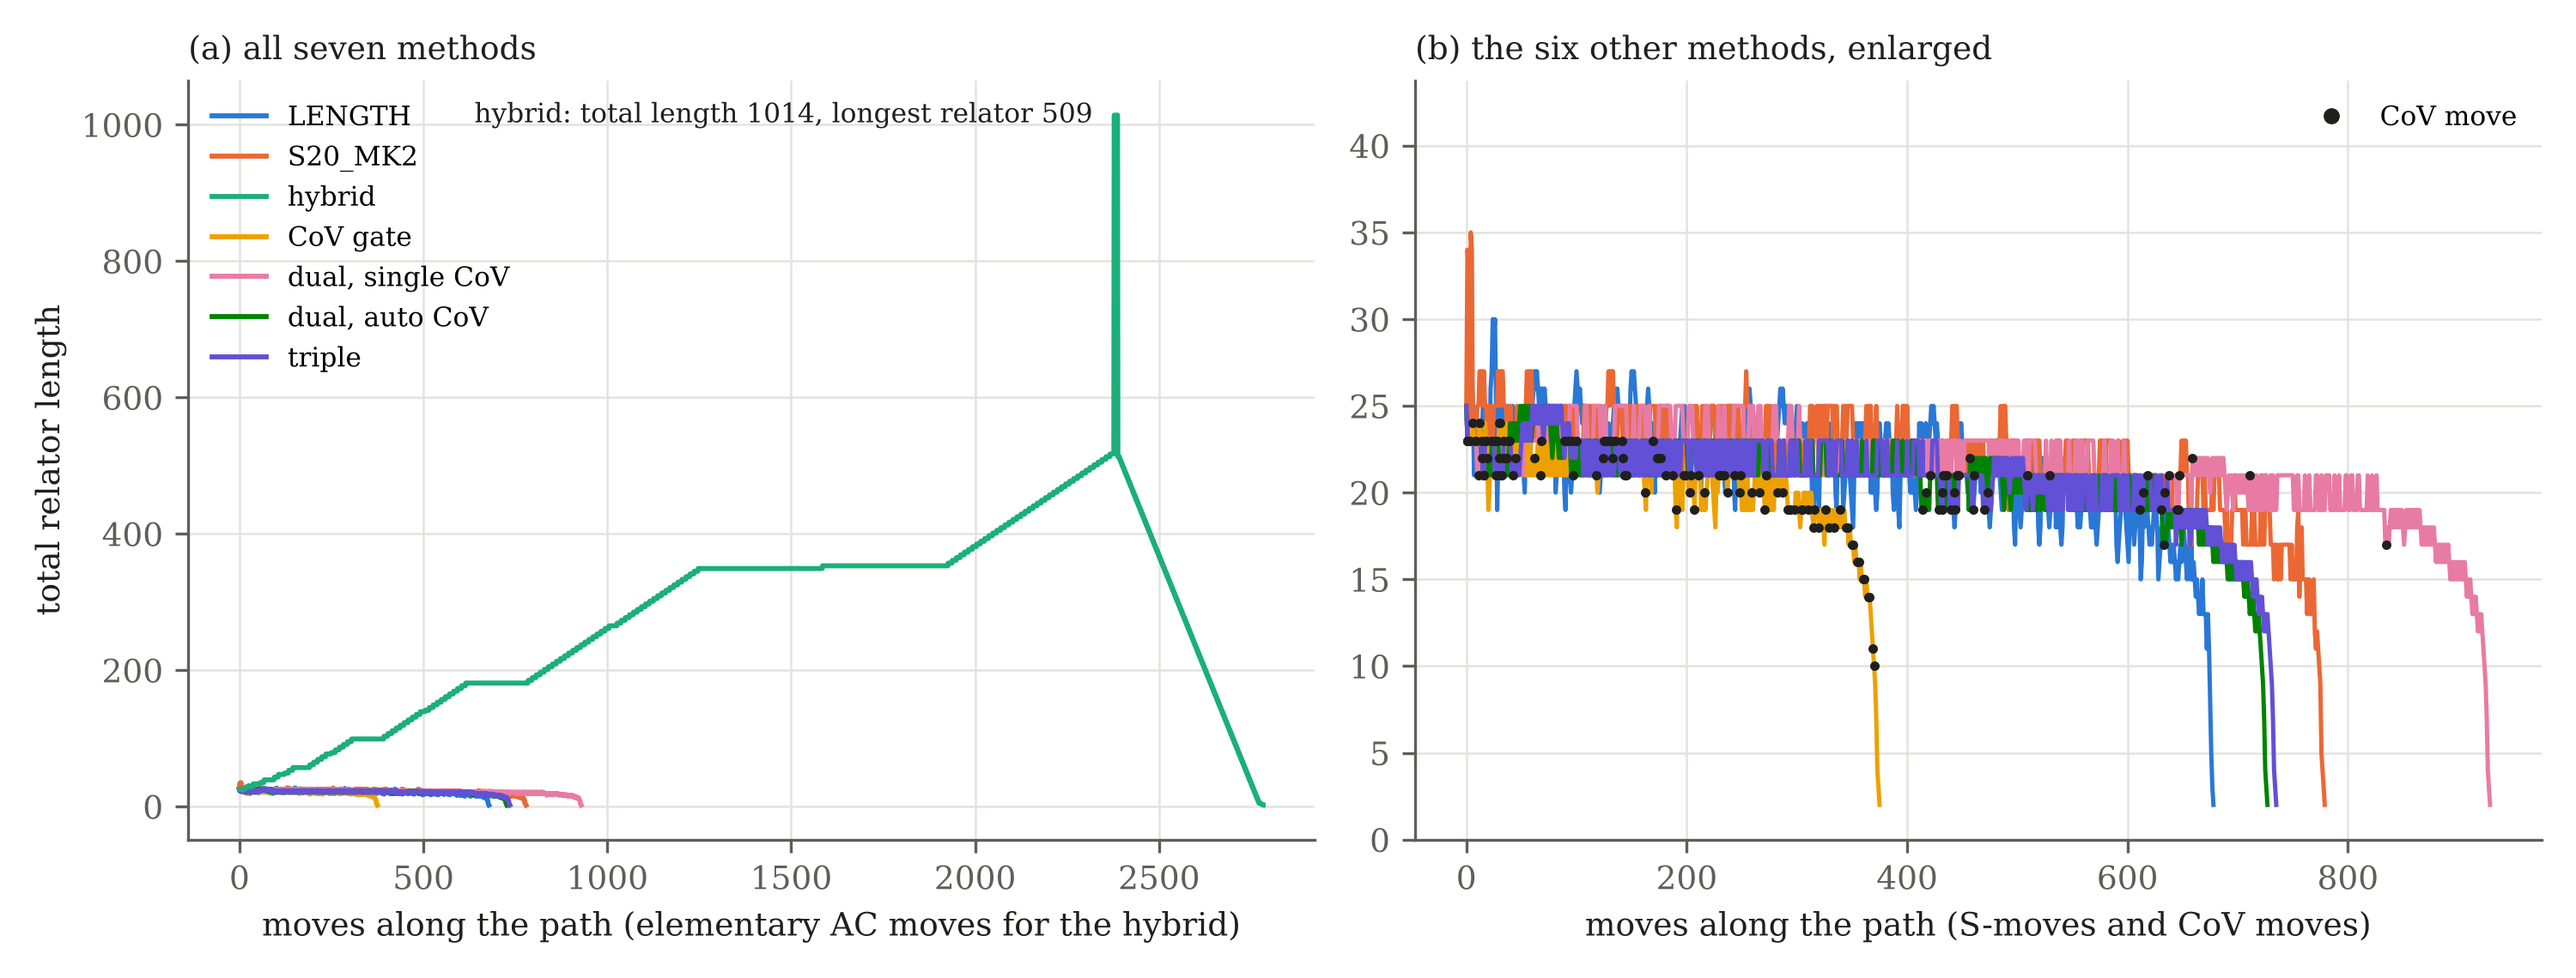
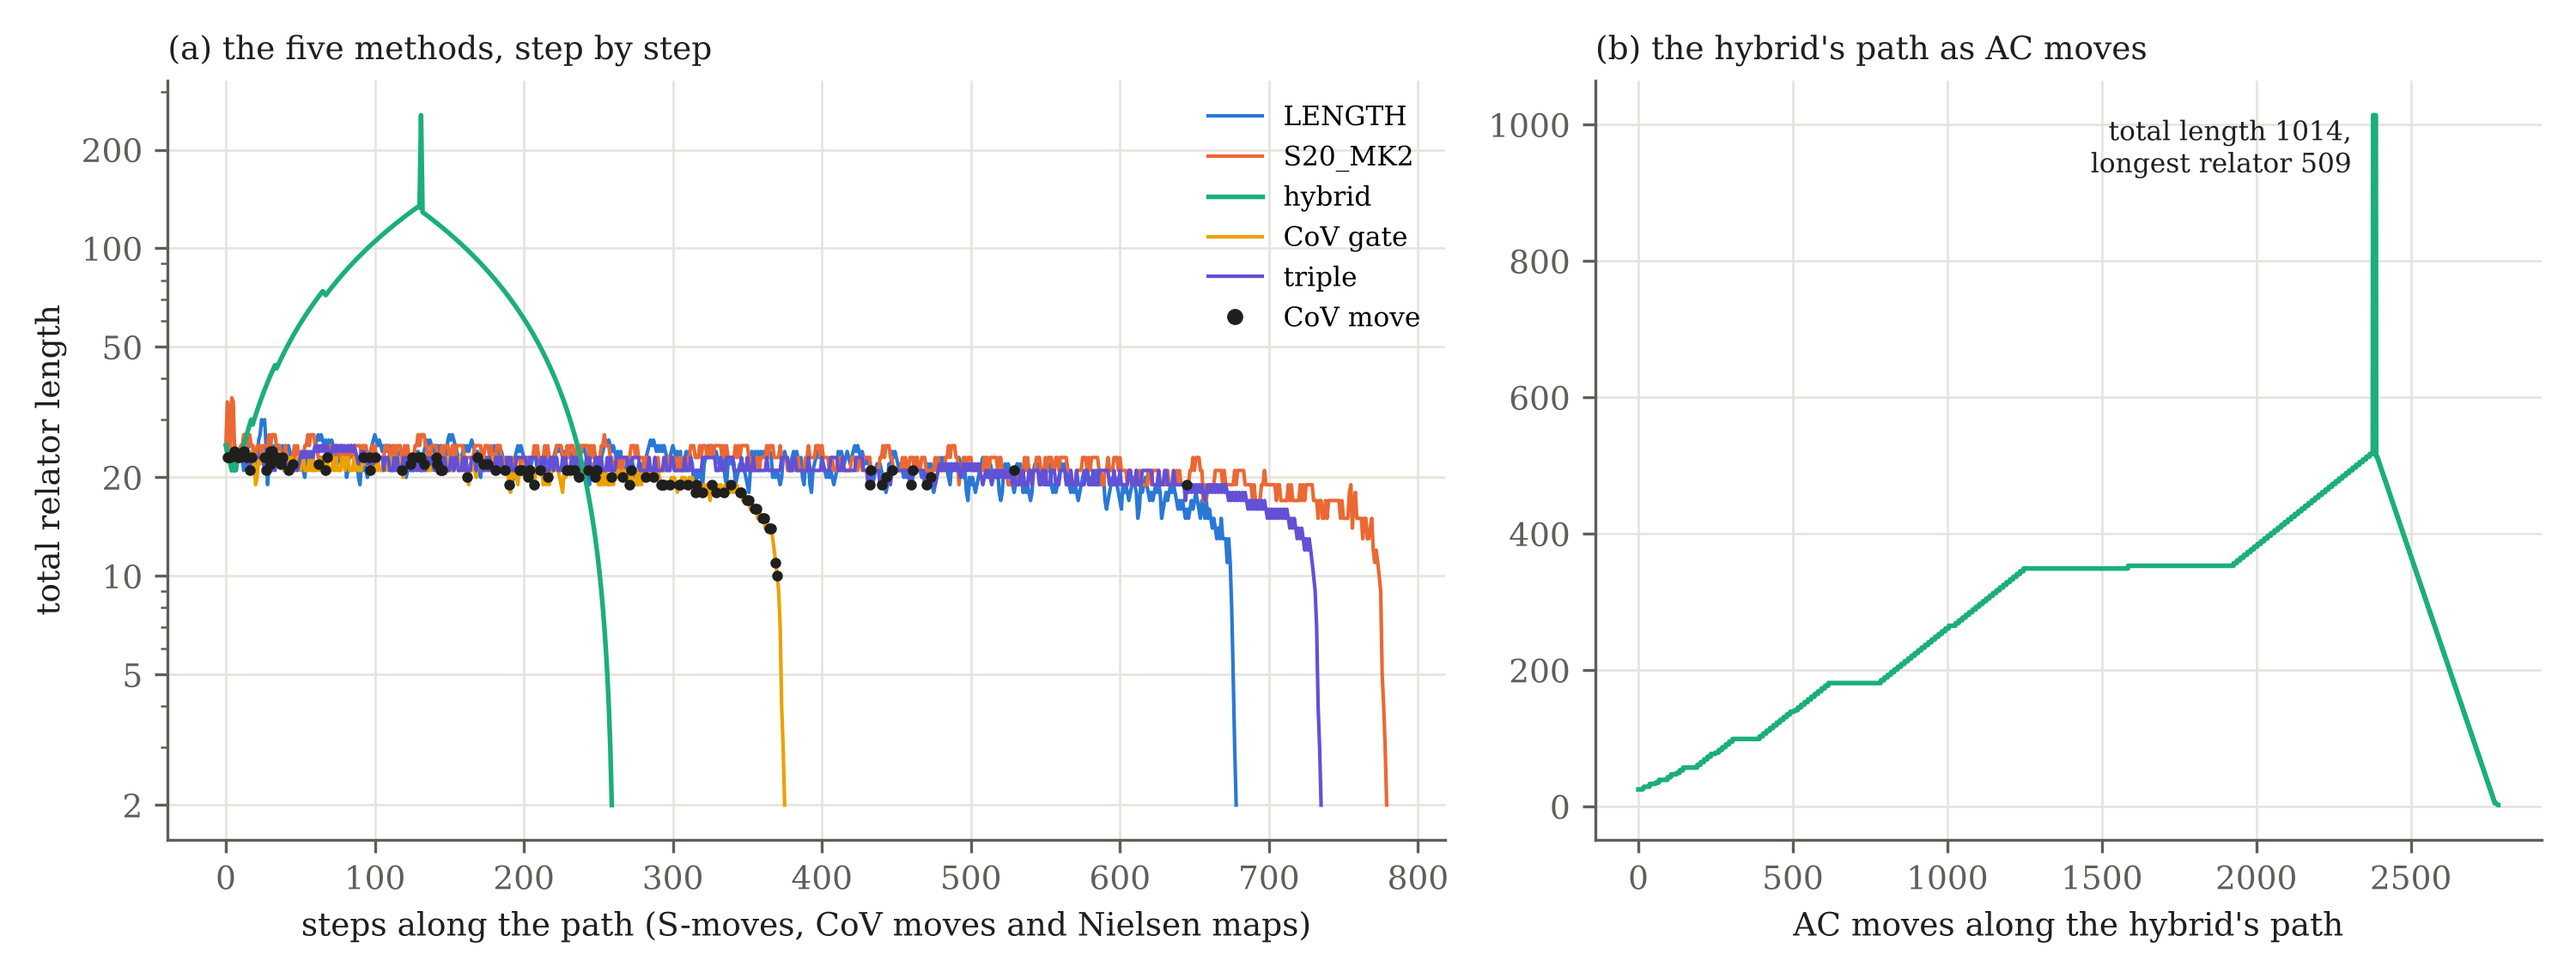
paper: simpler 509 example figure: five methods in search steps, the hybrid's AC path on its own panel
Claude-Session: https://claude.ai/code/session_01AdAbRuZRQ5MkX3g2nL8FXv

diff --git a/paper/figsrc/maxrel_example.py b/paper/figsrc/maxrel_example.py
@@ -64,47 +64,42 @@ def main():
         if r["id"] == ROW:
             break
     pres = parse_presentation(", ".join(rows[ROW]["pres"]))
-    names = ["LENGTH", "S20_MK2", "hybrid", "CoV gate", "dual, single CoV", "dual, auto CoV", "triple"]
-    plt.rcParams.update({"font.family": "serif", "font.size": 9, "axes.edgecolor": MUTED, "axes.labelcolor": INK, "xtick.color": MUTED,
-                         "ytick.color": MUTED})
-    fig, (a, b) = plt.subplots(1, 2, figsize=(10, 3.8), gridspec_kw={"width_ratios": [1, 1]})
-    data = {m: series(pres, m, r["paths"][m]) for m in names}
-    # the hybrid is drawn along its AC path: every Nielsen map rewritten as elementary AC moves
+    names = ["LENGTH", "S20_MK2", "hybrid", "CoV gate", "triple"]     # triple: the best of the dual and triple searches
+    colors = dict(zip(["LENGTH", "S20_MK2", "hybrid", "CoV gate", "dual, single CoV", "dual, auto CoV", "triple"], COLORS))
+    plt.rcParams.update({"font.family": "serif", "font.size": 9, "axes.edgecolor": MUTED, "axes.labelcolor": INK,
+                         "xtick.color": MUTED, "ytick.color": MUTED})
+    fig, (a, b) = plt.subplots(1, 2, figsize=(10, 3.8), gridspec_kw={"width_ratios": [1.35, 1]})
+    # (a) every method in the steps of its own search: S-moves, CoV moves, Nielsen maps
+    for m in names:
+        ys, special = series(pres, m, r["paths"][m])
+        a.plot(range(len(ys)), ys, color=colors[m], lw=1.3 if m == "hybrid" else 1.0, label=m,
+               zorder=3 if m == "hybrid" else 2)
+        if m != "hybrid" and special:
+            a.scatter(special, [ys[i] for i in special], s=9, marker="o", color=INK, linewidth=0, zorder=4)
+    handles, labels = a.get_legend_handles_labels()
+    handles.append(Line2D([], [], ls="", marker="o", color=INK, markersize=3.5))
+    labels.append("CoV move")
+    a.legend(handles, labels, frameon=False, fontsize=7.5, loc="upper right")
+    a.set_yscale("log")
+    a.set_yticks([2, 5, 10, 20, 50, 100, 200])
+    a.set_yticklabels(["2", "5", "10", "20", "50", "100", "200"])
+    a.set_xlabel("steps along the path (S-moves, CoV moves and Nielsen maps)")
+    a.set_ylabel("total relator length")
+    a.set_title("(a) the five methods, step by step", loc="left", fontsize=9, color=INK)
+    # (b) the hybrid alone: its path rewritten as AC moves on the original presentation
     st = replay(pres, unpack(r["paths"]["hybrid"]["elementary"]), cyclic=False, normalize=False)
     hy = [total(s.rels) for s in st]
-    others = [m for m in names if m != "hybrid"]
-    # (a) all seven methods on one scale
-    for c, m in zip(COLORS, names):
-        ys = hy if m == "hybrid" else data[m][0]
-        a.plot(range(len(ys)), ys, color=c, lw=1.4, label=m, zorder=3 if m == "hybrid" else 2)
+    b.plot(range(len(hy)), hy, color=colors["hybrid"], lw=1.3)
     mx = max(range(len(hy)), key=hy.__getitem__)
-    a.annotate(f"hybrid: total length {hy[mx]}, longest relator "
-               f"{max(len(reduce(tuple(w))) for w in st[mx].rels)}", (mx, hy[mx]), xytext=(-6, -2),
-               textcoords="offset points", ha="right", fontsize=7.5, color=INK)
-    a.set_xlabel("moves along the path (elementary AC moves for the hybrid)")
-    a.set_ylabel("total relator length")
-    a.set_title("(a) all seven methods", loc="left", fontsize=9, color=INK)
-    a.legend(frameon=False, fontsize=7.5, loc="upper left")
-    # (b) the six other methods, enlarged, with the CoV moves marked
-    top = 0
-    for c, m in zip(COLORS, names):
-        if m == "hybrid":
-            continue
-        ys, special = data[m]
-        top = max(top, max(ys))
-        b.plot(range(len(ys)), ys, color=c, lw=1.2, zorder=2)
-        if special:
-            b.scatter(special, [ys[i] for i in special], s=7, marker="o", color=INK, linewidth=0, zorder=3)
-    b.legend([Line2D([], [], ls="", marker="o", color=INK, markersize=3.5)], ["CoV move"],
-             frameon=False, fontsize=7.5, loc="upper right")
-    b.set_ylim(0, top * 1.25)
-    b.set_xlabel("moves along the path (S-moves and CoV moves)")
-    b.set_title("(b) the six other methods, enlarged", loc="left", fontsize=9, color=INK)
+    b.annotate(f"total length {hy[mx]},\nlongest relator {max(len(reduce(tuple(w))) for w in st[mx].rels)}", (mx, hy[mx]),
+               xytext=(-6, -16), textcoords="offset points", ha="right", fontsize=7.5, color=INK)
+    b.set_xlabel("AC moves along the hybrid's path")
+    b.set_title("(b) the hybrid's path as AC moves", loc="left", fontsize=9, color=INK)
     for ax in (a, b):
         ax.grid(True, color=GRID, lw=0.6)
         ax.set_axisbelow(True)
-        for s in ("top", "right"):
-            ax.spines[s].set_visible(False)
+        for sp in ("top", "right"):
+            ax.spines[sp].set_visible(False)
     fig.tight_layout()
     out = ROOT / "paper/figures/maxrel_example.png"
     fig.savefig(out, dpi=300)

diff --git a/paper/avi.tex b/paper/avi.tex
@@ -649,11 +649,11 @@ Figure~\ref{fig:maxrel_example} follows the presentation on which the hybrid's A
 \begin{figure}[ht]
 \centering
 \includegraphics[width=\textwidth]{figures/maxrel_example.png}
-\caption{The total relator length along the solution path of each method on the MS640 presentation
-$\pres{x,y}{y^{-8}x^{-1}y^7x,\ y^{-3}x^{-1}y^{-1}xyx^{-1}}$, on which the hybrid's AC path reaches a relator of length
-$509$ (total length $1{,}014$). (a) All seven methods; the hybrid is drawn along its AC path, in which each Nielsen map
-is rewritten as AC moves on the original presentation ($2{,}783$ moves). (b) The six other methods, enlarged; the
-black points mark the CoV moves.}
+\caption{The total relator length along the solution paths of LENGTH, $\SMK$, the hybrid, the CoV-gate search and
+the triple search on the MS640 presentation $\pres{x,y}{y^{-8}x^{-1}y^7x,\ y^{-3}x^{-1}y^{-1}xyx^{-1}}$, on which the
+hybrid's AC path reaches a relator of length $509$. (a) Each path step by step, a step being an S-move, a CoV move
+(black points) or a Nielsen map; the vertical axis is logarithmic. (b) The hybrid's path rewritten as AC moves on the
+original presentation ($2{,}783$ moves), along which the total length reaches $1{,}014$.}
 \label{fig:maxrel_example}
 \end{figure}
 
